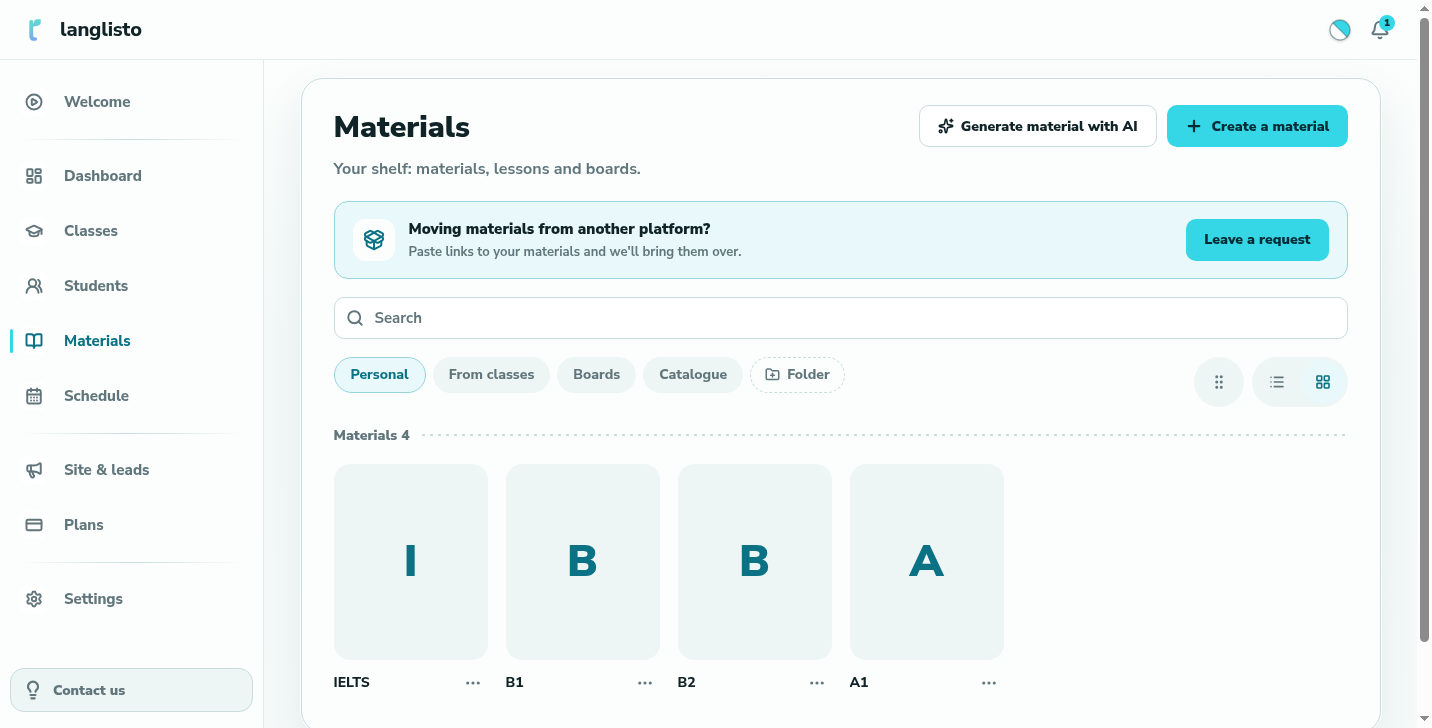
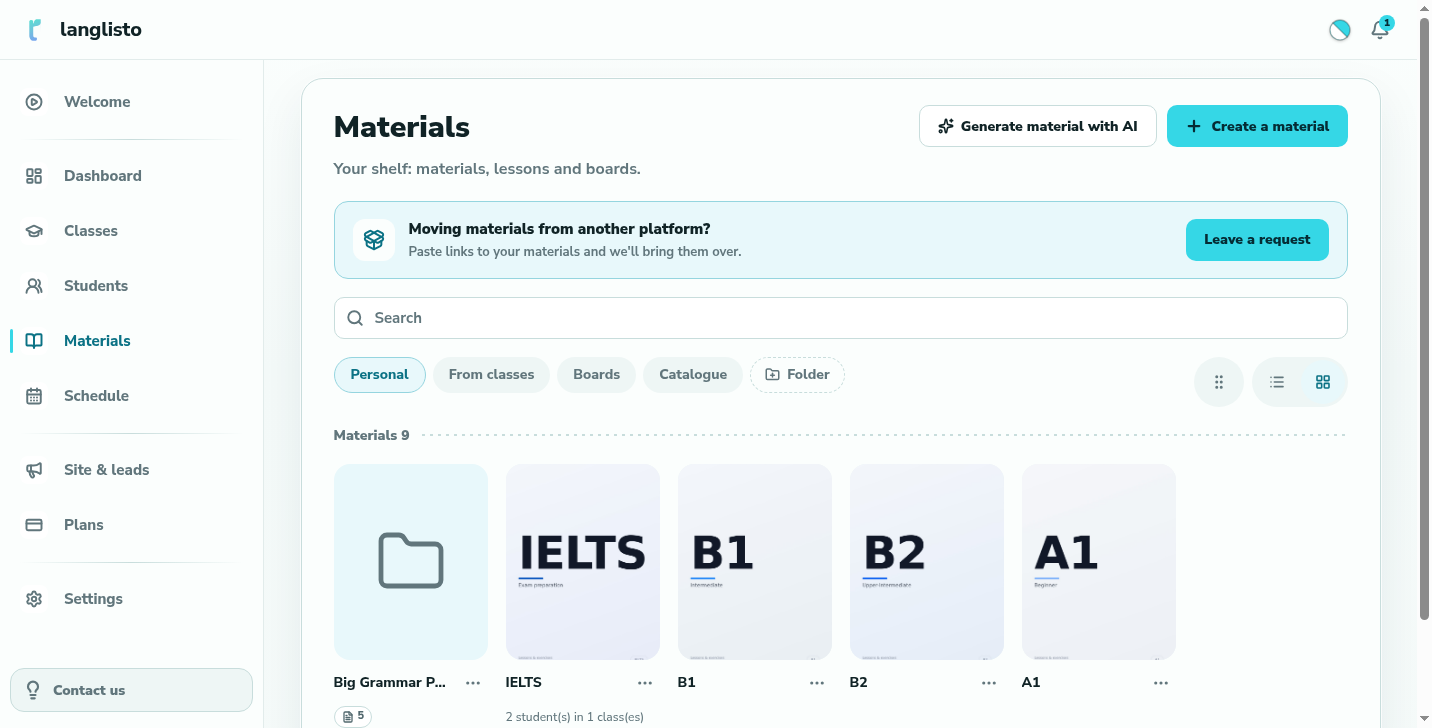
docs: refresh shelf previews (books with covers)

diff --git a/README.md b/README.md
@@ -101,7 +101,8 @@ cli-anything-langlisto courses cover "Book A" --file cover.png
 ```
 
 <p align="center">
-  <img src="assets/preview.png" alt="Materials shelf with book courses" width="80%" />
+  <img src="assets/preview.png" alt="Materials shelf: book courses with covers" width="49%" />
+  <img src="assets/preview-books.png" alt="A book series with its covers inside a folder" width="49%" />
 </p>
 
 **4 · Anything else** — `raw METHOD /path` is an escape hatch to the whole
